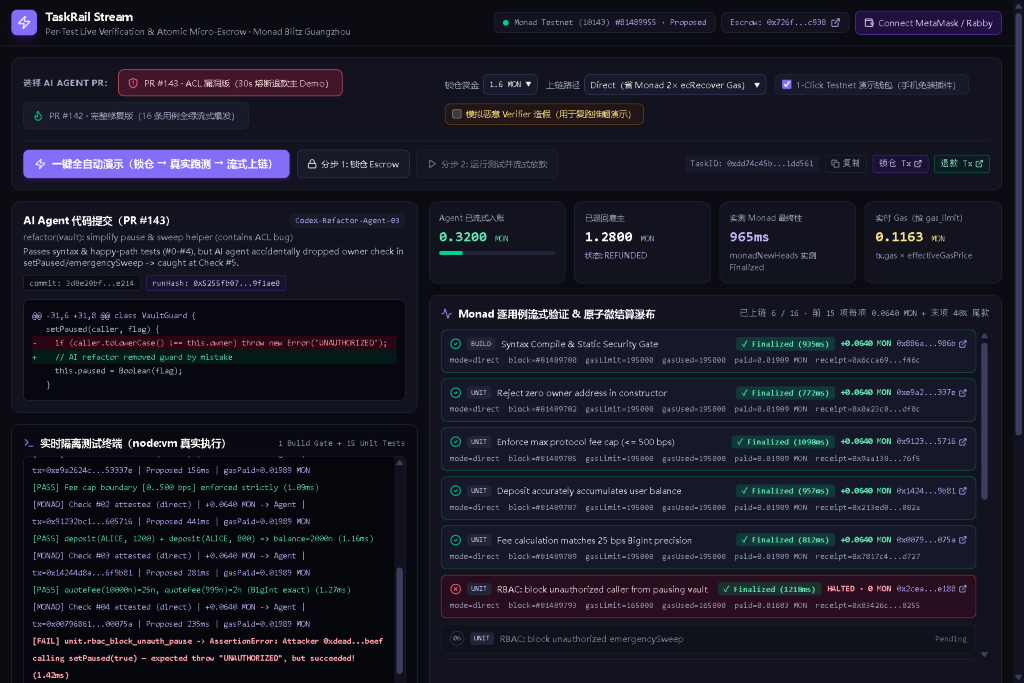
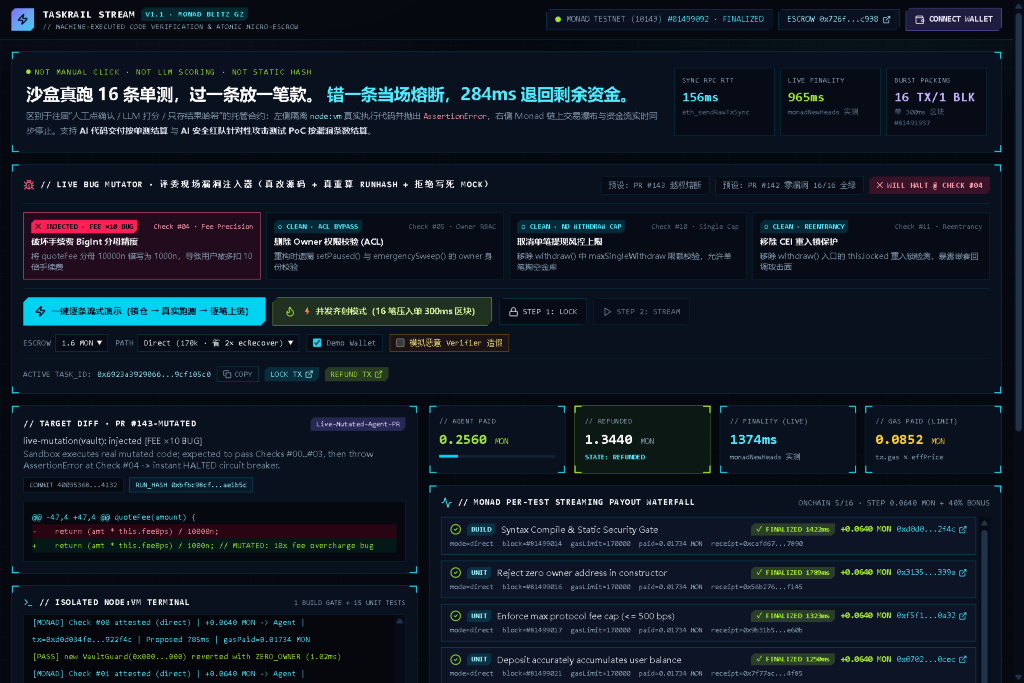
docs: update M.A.V.E.N. HUD live preview screenshot and burst/mutator testnet records

diff --git a/README.md b/README.md
@@ -3,20 +3,26 @@
 > **Per-Test-Case Live Code Verification & Atomic Micro-Escrow on Monad Testnet**  
 > Built from scratch at **Monad Blitz@广州** (`eventId=18`).
 
+![TaskRail Stream Live Cockpit on Monad Testnet](docs/preview.png)
+
 ## 已部署公网应用与真实链上记录（Monad Testnet · Chain ID `10143`）
 
 - **公网 Live Demo（Vercel）**：https://monad-blitz-eight.vercel.app
 - **核心合约 `TaskRailEscrow`（已通过 Monadscan & MonadVision 双浏览器源码验证）**：[`0x726f083ae7a6f9a1c2422dcd87c794fe8c88c938`](https://testnet.monadscan.com/address/0x726f083ae7a6f9a1c2422dcd87c794fe8c88c938)
[1 lines of base64/hex data omitted]
-- **公网端到端实测记录（PR #143 越权漏洞版：6 秒跑完锁仓 → 5 笔流式放款 → Check #5 熔断 → 独立读链核验 6/6 Valid → 284ms 一键退款 `1.28 MON`）**：
-  - `createTask (1.6 MON)`：[`0x56904067...`](https://testnet.monadscan.com/tx/0x569040675bff7723f3adbfd63460c448a1f246ec3ee09aa9b1de34c74cf88c28)（626ms）
-  - `Check #01 (UNIT · +0.064 MON)`：[`0xe9a2624c...`](https://testnet.monadscan.com/tx/0xe9a2624c8dd3b43a4f3d7fdbfc805fa3553b7e07e7ad5bf077e1d3acb253337e)（Proposed 156ms / Finalized 772ms）
-  - `Check #05 (ACL FAIL -> HALTED)`：[`0x2cea99c0...`](https://testnet.monadscan.com/tx/0x2cea99c0270b18c4756210de15309cc3aeee33d00e933ed299dd383f878de188)（Finalized 1218ms）
-  - `refundRemaining (1.28 MON)`：[`0xc73bd141...`](https://testnet.monadscan.com/tx/0xc73bd141200d8743591a0aeb8218f6ede8ca0e395c98b57982614b0b68146c0f)（284ms）
-- **Monad Testnet 全分支极限压测实录（`benchmark-all-paths.ts`）**：
-  - **16 笔逐用例并发齐射（Pipeline Burst）**：16 笔真实测试校验与微打款全部打包进 **同一个 300ms Monad 区块 (`#81491937`)**，16/16 成功，总入账 `1.6 MON`，合约余额精确归 `0 wei`（首笔 [`0xcf0f4caf...`](https://testnet.monadscan.com/tx/0xcf0f4caf49a748dcdf39a90e97e8e27db960aed219447dedb6455053c10cddf7) ～ 末笔 [`0x829fe5f1...`](https://testnet.monadscan.com/tx/0x829fe5f122ceba1f34fc16b78cab4f64d43308a32ccca97994f1f882296e221b)）
-  - **EIP-712 链上无许可中继验签**：[`0x7326f6e3...`](https://testnet.monadscan.com/tx/0x7326f6e339593e1b5e6046b3afde32390305f2956d7564d581db9ce6063a56fb)（实付 `0.01617 MON`）
-  - **同 `runHash` 链上争议冻结 (`disputeCheck`) + 退款**：[`0x28e48e42...`](https://testnet.monadscan.com/tx/0x28e48e423c3484ca3d9dd5366bdab2052ce966dd983bfdb21de0700910acf646) → [`0x18720005...`](https://testnet.monadscan.com/tx/0x1872000530dda3d9d90e56bee697bef7ad4defab0998c97f98b3f5881bbf8557)
+- **公网实测 1｜PR #142 零漏洞 · 16 笔 Monad 并发齐射（Pipeline Burst）**：
+  - 16 笔真实测试验证与微打款 **全部打包进同 1 个 Monad 区块（`#81498925`）**，VM `52.57ms` / Broadcast `405ms` / Confirmed `1643ms`，Agent 精准入账 `1.6000 MON`（含第 16 项 `+0.6400 MON` 尾款，`0 wei` 尘埃）
+  - `createTask (1.6 MON)`：[`0xd7bf6fde...`](https://testnet.monadscan.com/tx/0xd7bf6fde228f539aa75f49b635a6aa0b5e401a6cc04b3fa57aa89c2fa590b65c)（`407ms`，Block `#81498921`）
+  - Check #00 ～ Check #15（Block `#81498925`）：首笔 [`0xbe008a46...`](https://testnet.monadscan.com/tx/0xbe008a464fc07b7afce450d6dbbb6fcbc60a226bf1c7fff9de84132c1a338fb2) ～ 末笔 [`0x762e6046...`](https://testnet.monadscan.com/tx/0x762e604628277f9c402020fa7d432e94c14bde4aa72dcccb820f07f210015d10)
+- **公网实测 2｜Live Bug Mutator 动态漏洞注入（`FEE ×10 BUG`）→ Check #04 精准熔断 & 365ms 退款**：
+  - 现场勾选 `破坏手续费 BigInt 分母精度` 动态重写源码并重算 `runHash`，沙盒实跑通过前 4 项（`+0.2560 MON`），Check #04 抛出 `AssertionError (expected=25, actual=250)` 当场触发链上 `HALTED`，一键退回 `1.3440 MON`
+  - `createTask (1.6 MON)`：[`0xe0af0027...`](https://testnet.monadscan.com/tx/0xe0af00279d511ed8b83bc3940b169f5f2bdb0bc8933ad7376e67f18a36cef119)（`360ms`）
+  - `Check #04 (FEE ×10 FAIL -> HALTED)`：[`0x90244cf6...`](https://testnet.monadscan.com/tx/0x90244cf6cac570d96c6a906463f578882d50137f99c4a3d2d563ffee5d537ad4)（Block `#81499024`，Finalized `1087ms`）
+  - `refundRemaining (1.3440 MON)`：[`0x2225c8a9...`](https://testnet.monadscan.com/tx/0x2225c8a92806146740de033b96b6b0b2c20a6dc01e392ba981a7a5c7c36df5ad)（`365ms`）
+- **公网实测 3｜PR #143 越权漏洞版 + EIP-712 无许可中继 + 同 `runHash` 链上争议冻结**：
+  - PR #143 Check #05 ACL 熔断：[`0x2cea99c0...`](https://testnet.monadscan.com/tx/0x2cea99c0270b18c4756210de15309cc3aeee33d00e933ed299dd383f878de188) → 退款 `1.28 MON`：[`0xc73bd141...`](https://testnet.monadscan.com/tx/0xc73bd141200d8743591a0aeb8218f6ede8ca0e395c98b57982614b0b68146c0f)（`284ms`）
+  - EIP-712 链上无许可中继验签：[`0x7326f6e3...`](https://testnet.monadscan.com/tx/0x7326f6e339593e1b5e6046b3afde32390305f2956d7564d581db9ce6063a56fb)（实付 `0.01617 MON`）
+  - 同 `runHash` 链上争议冻结 (`disputeCheck`) + 退款：[`0x28e48e42...`](https://testnet.monadscan.com/tx/0x28e48e423c3484ca3d9dd5366bdab2052ce966dd983bfdb21de0700910acf646) → [`0x18720005...`](https://testnet.monadscan.com/tx/0x1872000530dda3d9d90e56bee697bef7ad4defab0998c97f98b3f5881bbf8557)
 
 ## 一句话说明
 
